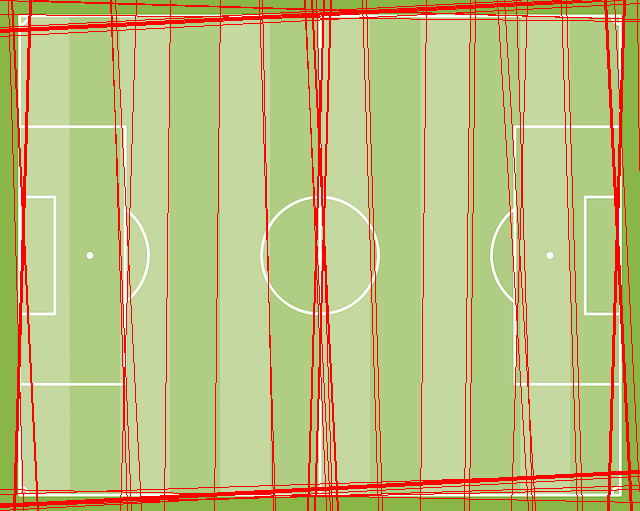
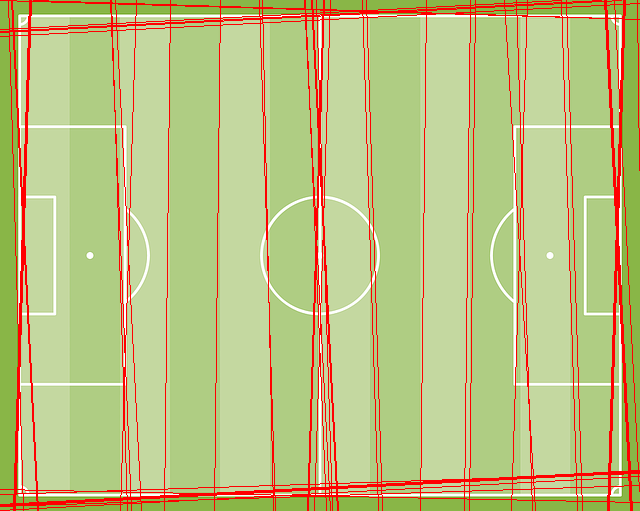
add

diff --git a/hough_transform.py b/hough_transform.py
@@ -41,7 +41,7 @@ def line_detect(img):
                     if rho >= 0 and rho < max_dist:
                         #map from Hough space to matrix
                         H[int(rho), int((theta + 3.14)/0.01)] += 1
-    threshold = 250
+    threshold = 251
     #voting...
     list_ = np.where(H >= threshold)
     rho = list_[0]
@@ -55,10 +55,10 @@ def line_detect(img):
         x0 = a * rho[i]
         #y0 = rho * sin(theta)
         y0 = b * rho[i]
-        x1 = int(x0 + 1000*(-b))
+        x1 = int(x0 + 1000 * (-b))
         y1 = int(y0 + 1000 * a)
-        x2 = int(x0 - 1000*(-b))
-        y2 = int(y0 - 1000*a)
+        x2 = int(x0 - 1000 * (-b))
+        y2 = int(y0 - 1000 * a)
         cv2.line(img, (x1, y1), (x2, y2), (0, 0, 255), 1)
     return img
 result = line_detect(img)
